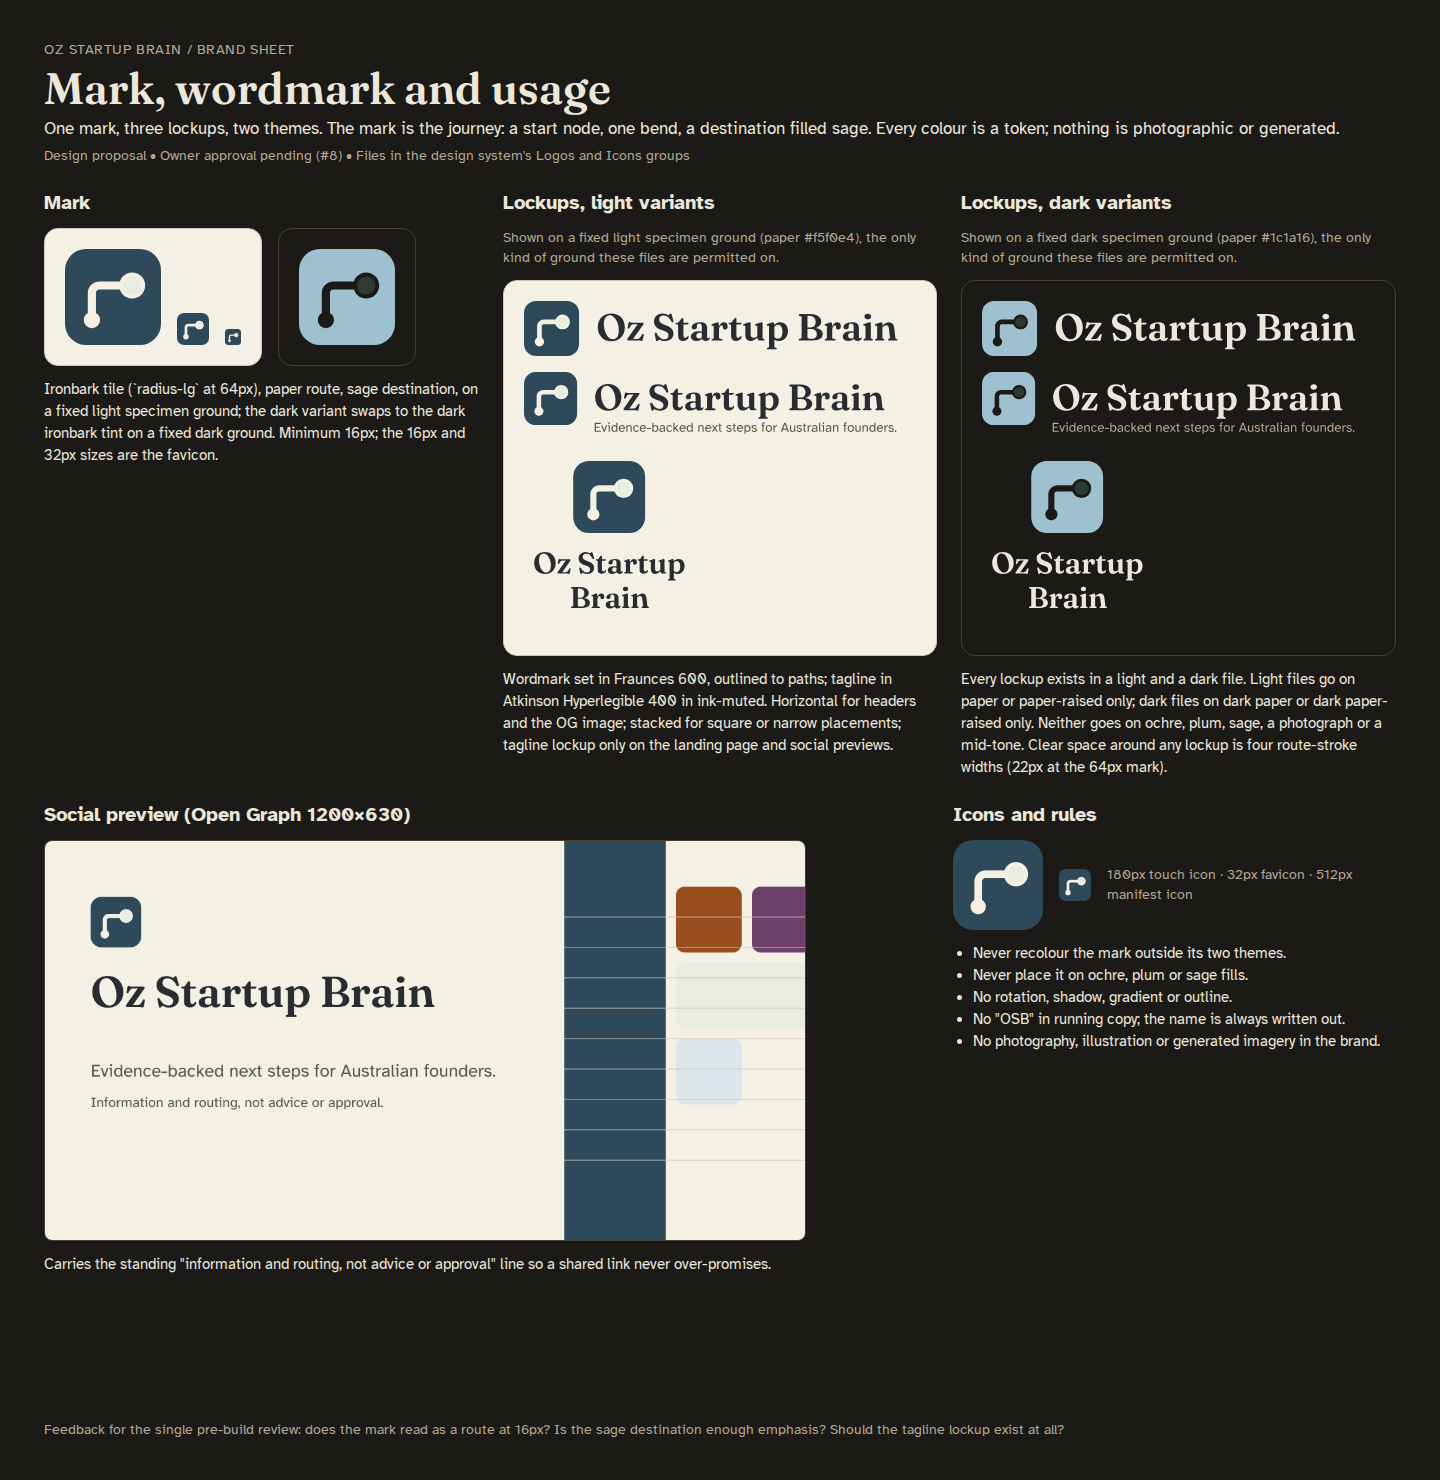
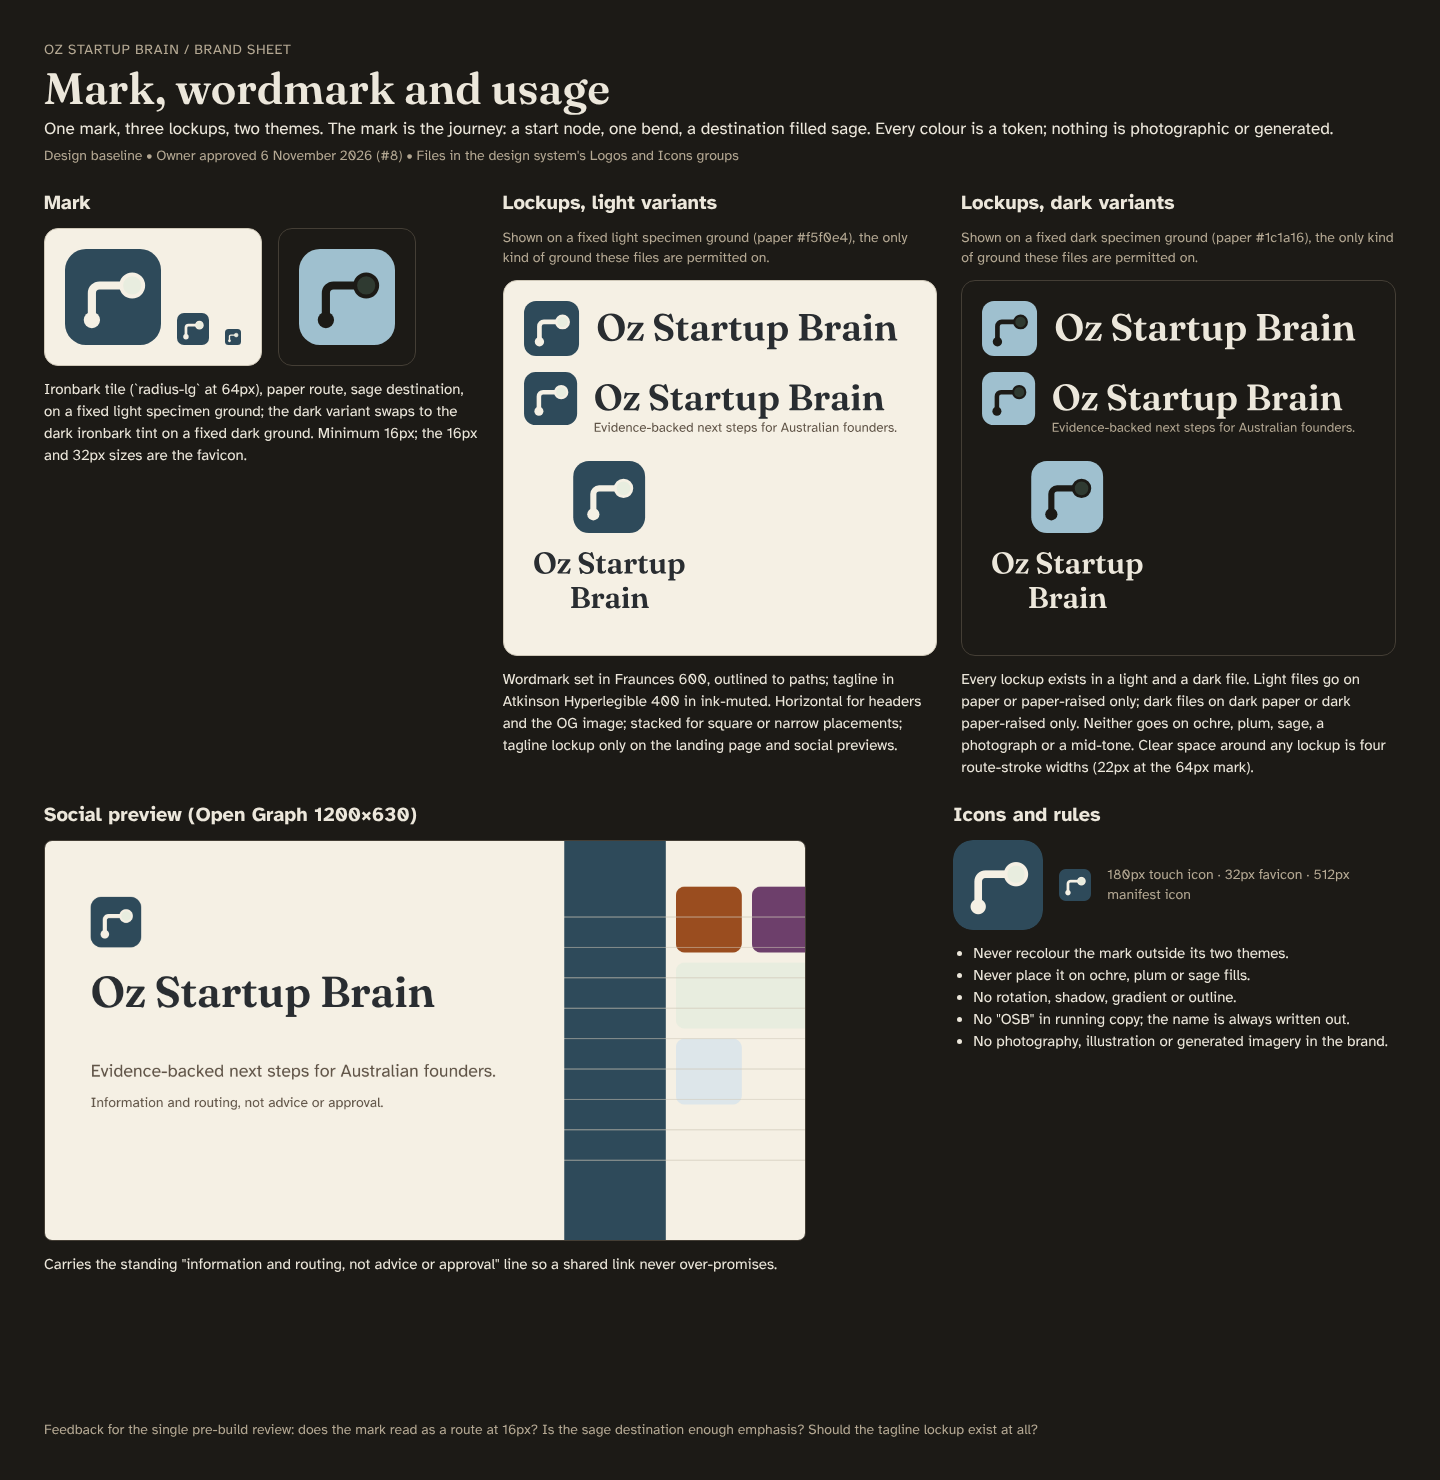
docs(design): record #8 approval in the brand sheet caption and storyboards
- docs/ux/storyboards.md no longer says owner approval is pending; it links the decision.
- design/mockups/Brand-Sheet.dc.html caption now reads "Design baseline • Owner approved
  6 November 2026 (#8)"; the two Brand-Sheet renders are regenerated (48-page render passed:
  no page errors, bounds overflow or layout overlaps; painted-font verification passed).
  Rendered with Chromium 153.0.8010.12 because the pinned 134 download is refused from this
  environment; recorded in design/mockups/HANDOFF.md with the other unrepublished refinements.

Refs #35, #8

Claude-Session: https://claude.ai/code/session_01GGe58LcKV8w2qgCKuFGDot

diff --git a/design/mockups/Brand-Sheet.dc.html b/design/mockups/Brand-Sheet.dc.html
@@ -23,7 +23,7 @@ a{color:var(--ironbark)}a:hover{color:var(--ink)}
     <p style="margin: 0; font-size: 14px; line-height: 20px; color: var(--ink-muted); text-transform: uppercase; letter-spacing: 0.04em;">Oz Startup Brain / Brand sheet</p>
     <h1 style="margin: 0; font-family: var(--font-display); font-size: 44px; line-height: 48px; font-weight: 600;">Mark, wordmark and usage</h1>
     <p style="margin: 0; font-size: 17px; line-height: 26px;">One mark, three lockups, two themes. The mark is the journey: a start node, one bend, a destination filled sage. Every colour is a token; nothing is photographic or generated.</p>
-    <p style="margin: 0; font-size: 14px; line-height: 20px; color: var(--ink-muted);">Design proposal • Owner approval pending (#8) • Files in the design system's Logos and Icons groups</p>
+    <p style="margin: 0; font-size: 14px; line-height: 20px; color: var(--ink-muted);">Design baseline • Owner approved 6 November 2026 (#8) • Files in the design system's Logos and Icons groups</p>
   </div>
 
   <div style="display: grid; grid-template-columns: repeat(3, minmax(0, 1fr)); gap: 24px; align-items: start; min-width: 0;">

diff --git a/design/mockups/HANDOFF.md b/design/mockups/HANDOFF.md
@@ -23,7 +23,7 @@ Versioned export of the "Oz Startup Brain Mock-ups" Claude Design canvas: the ar
 
 `../tools/render.py` performs a geometric bounds check as part of every render: in both themes, every button, link, input, select, textarea, paragraph and heading on every artboard must lie inside its artboard's frame from `canvas.json`, or the script prints `BOUNDS <artboard> <theme>: <element>` and exits nonzero. The committed exports were produced by a passing run on 6 November 2026. The same run checks the canvas layout itself: no title or sticky note in `canvas.json` may overlap an artboard frame and no two frames may overlap (`LAYOUT …`, exit 1), because the renderer draws artboards only and would otherwise never see an annotation sitting on a board. This now checks the pinned intended-font render; painted glyph verification is recorded in `../exports/font-verification.json`. It does not prove the hosted artifact's exact font metrics.
 
-**Repository refinement (#22).** The local renderer consumes `../system/`, including the SVG waiting-state ticks, placeholder contrast and table-date refinements documented in its handoff. These changes have not been republished to Claude. The version stamps above and in `canvas.json` identify the exported baseline and deliberately remain unchanged. Reconcile the local bundle refinements before the next artifact publication; do not overwrite them with the older embedded bundle.
+**Repository refinement (#22).** The local renderer consumes `../system/`, including the SVG waiting-state ticks, placeholder contrast and table-date refinements documented in its handoff. These changes have not been republished to Claude. The version stamps above and in `canvas.json` identify the exported baseline and deliberately remain unchanged. Reconcile the local bundle refinements before the next artifact publication; do not overwrite them with the older embedded bundle. **Brand sheet caption (#8, PR #35).** After the owner's approval the sheet's caption was changed locally from "Design proposal • Owner approval pending (#8)" to "Design baseline • Owner approved 6 November 2026 (#8)" in `Brand-Sheet.dc.html`, and only the two Brand-Sheet renders were regenerated. Those two files were rendered with Chromium 153.0.8010.12 (the pinned 134.0.6998.35 could not be downloaded in that environment); every other export and `../exports/font-verification.json` remain from the Chromium 134 run, so a full regeneration on the pinned browser will change only those two files' anti-aliasing. This caption change is also not yet republished to Claude.
 
 **Embedded design-system version.** The canvas copies the design system's `README.md`, `tokens.json`, `components/bundle.js` and `components/bundle.css` into `ds/oz-startup-brain/` at publish time; `canvas.json` records which artifact version they came from. Before version 14 that stamp still read `1793907664-c590` (the first copy) although the copied files had been refreshed on each republish: the files embedded in canvas version 12 were compared byte for byte with the committed version-8 export of `../system/` and were identical, so the stamp was stale metadata, not a divergent system. The stamp is now set from the version actually copied and must be updated on every re-export; the same comparison (`cmp` of the four files against `../system/`) is the check.
 

diff --git a/docs/ux/storyboards.md b/docs/ux/storyboards.md
@@ -47,7 +47,7 @@ Also required before testing dictation: a phone-width variant of SB3, because th
 
 ### Design system and higher-fidelity mock-ups
 
-Both SB5 and the phone-width SB3 now exist as Claude Design artifacts built from the project's design system, alongside a desktop journey-workspace mock-up. The editable originals are owner-private; versioned exports that any reviewer can inspect are committed under [`design/`](../../design/system/HANDOFF.md): the design-system sources and PNG renders ([system](../../design/system/HANDOFF.md)) and the artboard sources and renders ([mock-ups](../../design/mockups/HANDOFF.md)), each stamped with the artifact version and export date. Owner approval of both is pending.
+Both SB5 and the phone-width SB3 now exist as Claude Design artifacts built from the project's design system, alongside a desktop journey-workspace mock-up. The editable originals are owner-private; versioned exports that any reviewer can inspect are committed under [`design/`](../../design/system/HANDOFF.md): the design-system sources and PNG renders ([system](../../design/system/HANDOFF.md)) and the artboard sources and renders ([mock-ups](../../design/mockups/HANDOFF.md)), each stamped with the artifact version and export date. Owner approval of both was recorded on 6 November 2026 ([#8](https://github.com/nissan/oz-startup-brain/issues/8#issuecomment-6679674992)).
 
 A brand kit (mark, wordmark lockups, favicon, app icons, avatar and Open Graph image) is exported under [`design/brand/`](../../design/brand/HANDOFF.md) and shown on the canvas's Brand sheet; it is original work built from the system's tokens, with no photography, illustration or generated imagery. The design system, mock-ups and brand kit are reviewed together under one owner review (#8).
 
